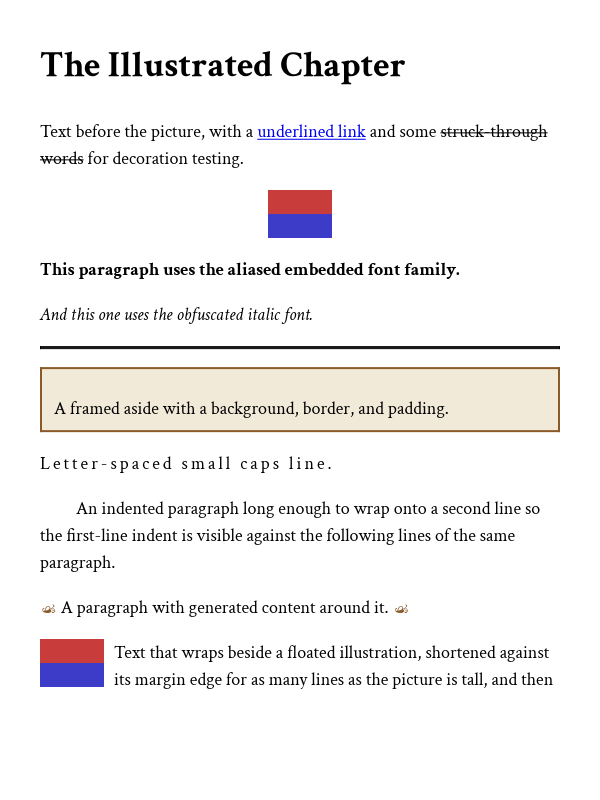
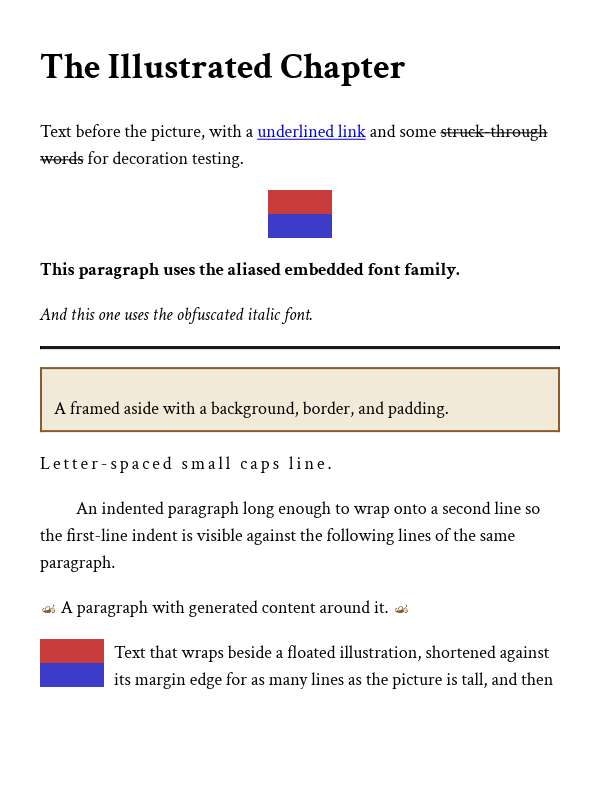
Snap glyph baselines to whole device pixels
Every line of text has been rendering up to ~1.6px above the baseline the
layout computed. With one backend there was nothing to notice it against:
the pages looked fine, and the goldens encoded the error.

cosmic-text's vertical sub-pixel bin is handed to swash as a render offset,
and swash moves the glyph the other way, so passing the true fractional
baseline lifts the whole line. Snapping the baseline to the nearest device
pixel — which is what text rasterizers conventionally do, because it keeps
stems and baselines aligned across a line — lands within half a pixel of
where layout asked instead. Horizontal sub-pixel positioning stays: that is
where it buys even spacing.

The goldens move accordingly. The diff is the fix's signature: total ink
unchanged to 0.00%, page centroid down 0.2–0.45px, and no uniform shift —
only the lines whose baseline fraction rounded up moved at all.

Found by building a second backend over the same display list, which is
what a second backend is for.

Changed region(s): [[0.24, 0.0625, 0.69, 0.125], [0.06, 0.0625, 0.21, 0.0938]]

diff --git a/crates/chapbook-render-tinyskia/src/lib.rs b/crates/chapbook-render-tinyskia/src/lib.rs
@@ -59,7 +59,17 @@ impl Renderer {
                 } => {
                     for glyph in glyphs {
                         let px = (origin.x + glyph.x) * scale;
-                        let py = (origin.y + glyph.y) * scale;
+                        // Baselines snap to whole device pixels, as text
+                        // rasterizers conventionally do: it keeps stems and
+                        // baselines aligned across a line. It is also the
+                        // only correct option here — swash renders the
+                        // sub-pixel offset from cosmic-text's vertical bin
+                        // in the opposite direction, so passing the true
+                        // fraction lifts every line up to ~1.6px above the
+                        // baseline the layout computed. Horizontal
+                        // sub-pixel positioning is kept: that is where it
+                        // buys even spacing.
+                        let py = ((origin.y + glyph.y) * scale).round();
                         let (key, xi, yi) = CacheKey::new(
                             *font,
                             glyph.id,
